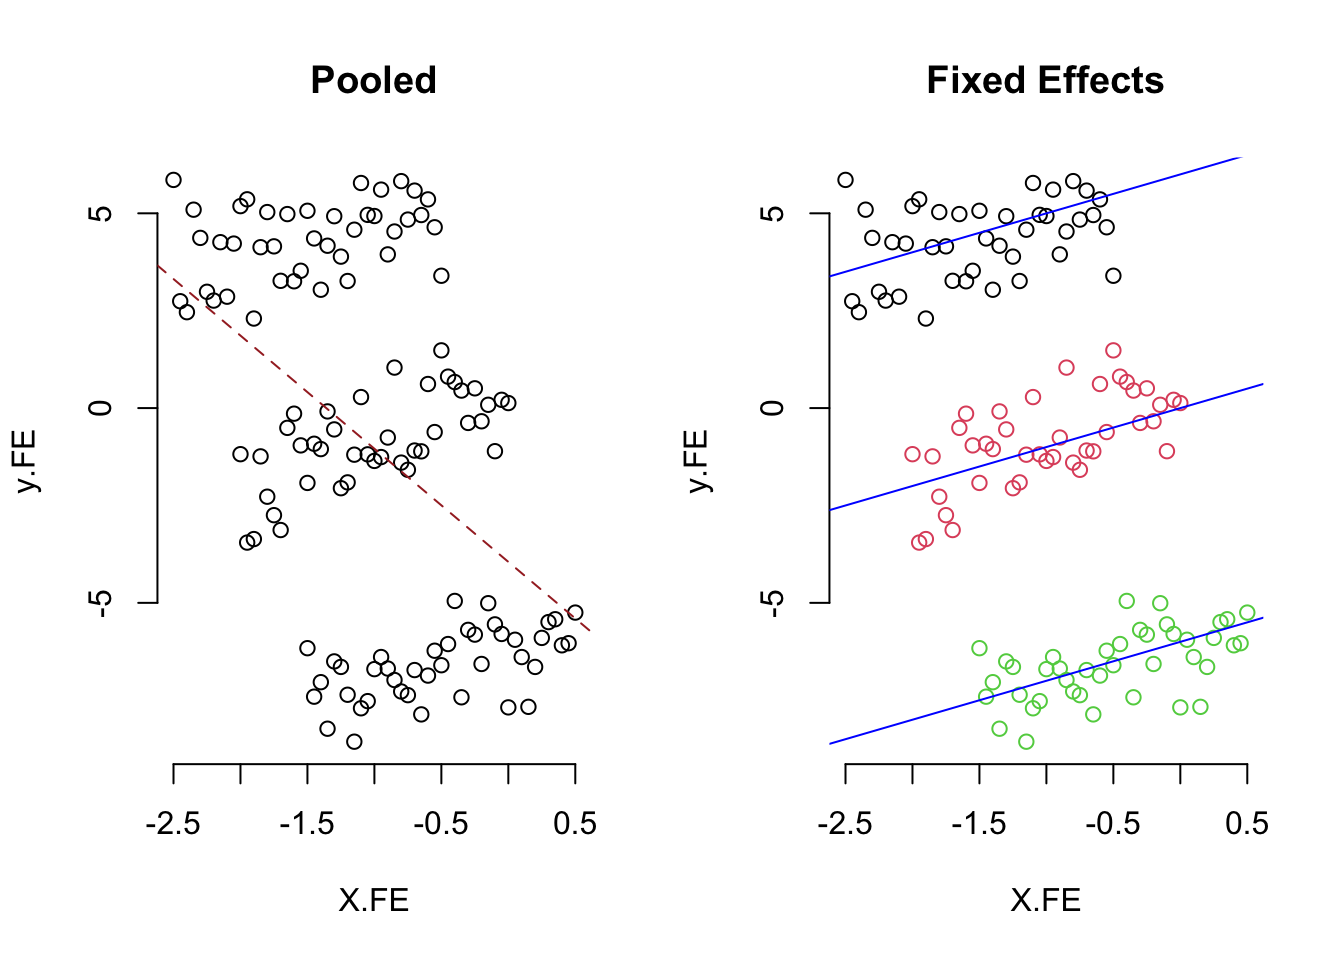
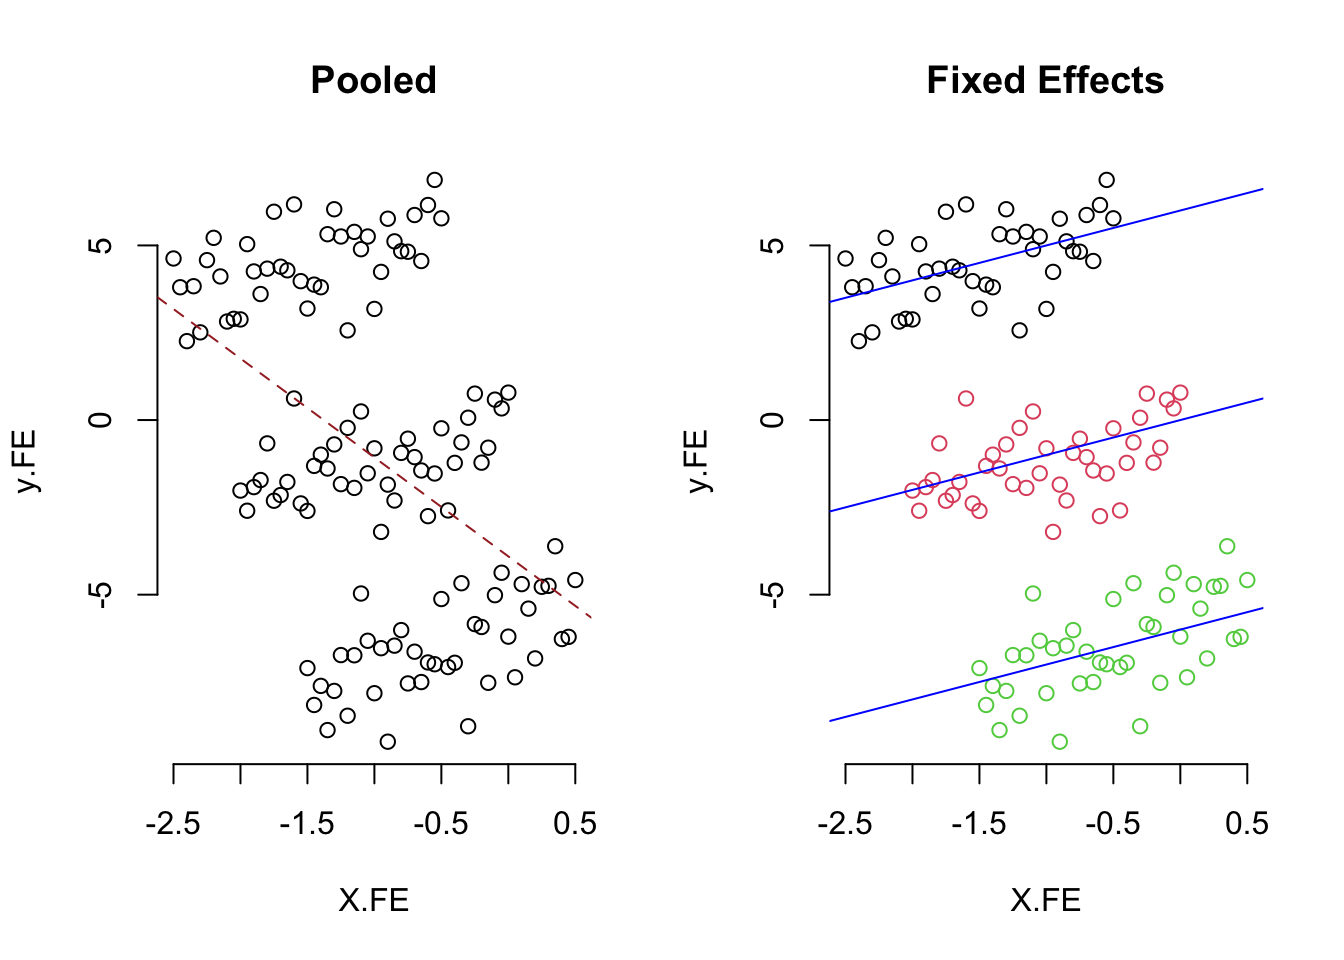
Through week 2

diff --git a/_site/index.html b/_site/index.html
@@ -543,7 +543,7 @@ Robert W. Walker
 </a>
 </div>
 </div>
-<div class="quarto-post image-right" data-index="6" data-categories="cGFuZWwlMjBkYXRhJTJDY29kZSUyQ2FuYWx5c2lz" data-listing-date-sort="1753686000000" data-listing-file-modified-sort="1752513311347" data-listing-date-modified-sort="NaN" data-listing-reading-time-sort="4" data-listing-word-count-sort="682">
+<div class="quarto-post image-right" data-index="6" data-categories="cGFuZWwlMjBkYXRhJTJDY29kZSUyQ2FuYWx5c2lz" data-listing-date-sort="1753686000000" data-listing-file-modified-sort="1753268535342" data-listing-date-modified-sort="NaN" data-listing-reading-time-sort="4" data-listing-word-count-sort="677">
 <div class="thumbnail"><a href="./posts/day-6/index.html" class="no-external">
 
 <img loading="lazy" src="./posts/day-6/image.png" class="thumbnail-image">
@@ -580,7 +580,7 @@ Robert W. Walker
 </a>
 </div>
 </div>
-<div class="quarto-post image-right" data-index="7" data-categories="cGFuZWwlMjBkYXRhJTJDY29kZSUyQ2FuYWx5c2lz" data-listing-date-sort="1753772400000" data-listing-file-modified-sort="1752514323766" data-listing-date-modified-sort="NaN" data-listing-reading-time-sort="3" data-listing-word-count-sort="523">
+<div class="quarto-post image-right" data-index="7" data-categories="cGFuZWwlMjBkYXRhJTJDY29kZSUyQ2FuYWx5c2lz" data-listing-date-sort="1753772400000" data-listing-file-modified-sort="1753268551574" data-listing-date-modified-sort="NaN" data-listing-reading-time-sort="3" data-listing-word-count-sort="518">
 <div class="thumbnail"><a href="./posts/day-7/index.html" class="no-external">
 
 <img loading="lazy" src="./posts/day-7/image.png" class="thumbnail-image">
@@ -617,7 +617,7 @@ Robert W. Walker
 </a>
 </div>
 </div>
-<div class="quarto-post image-right" data-index="8" data-categories="cGFuZWwlMjBkYXRhJTJDY29kZSUyQ2FuYWx5c2lz" data-listing-date-sort="1753858800000" data-listing-file-modified-sort="1752514399948" data-listing-date-modified-sort="NaN" data-listing-reading-time-sort="3" data-listing-word-count-sort="517">
+<div class="quarto-post image-right" data-index="8" data-categories="cGFuZWwlMjBkYXRhJTJDY29kZSUyQ2FuYWx5c2lz" data-listing-date-sort="1753858800000" data-listing-file-modified-sort="1753268637269" data-listing-date-modified-sort="NaN" data-listing-reading-time-sort="3" data-listing-word-count-sort="512">
 <div class="thumbnail"><a href="./posts/day-8/index.html" class="no-external">
 
 <img loading="lazy" src="./posts/day-8/image.jpg" class="thumbnail-image">
@@ -654,7 +654,7 @@ Robert W. Walker
 </a>
 </div>
 </div>
-<div class="quarto-post image-right" data-index="9" data-categories="cGFuZWwlMjBkYXRhJTJDY29kZSUyQ2FuYWx5c2lz" data-listing-date-sort="1753945200000" data-listing-file-modified-sort="1752514439753" data-listing-date-modified-sort="NaN" data-listing-reading-time-sort="1" data-listing-word-count-sort="73">
+<div class="quarto-post image-right" data-index="9" data-categories="cGFuZWwlMjBkYXRhJTJDY29kZSUyQ2FuYWx5c2lz" data-listing-date-sort="1753945200000" data-listing-file-modified-sort="1753268646862" data-listing-date-modified-sort="NaN" data-listing-reading-time-sort="1" data-listing-word-count-sort="68">
 <div class="thumbnail"><a href="./posts/day-9/index.html" class="no-external">
 
 <img loading="lazy" src="./posts/day-9/image.jpg" class="thumbnail-image">
@@ -691,7 +691,7 @@ Robert W. Walker
 </a>
 </div>
 </div>
-<div class="quarto-post image-right" data-index="10" data-categories="cGFuZWwlMjBkYXRhJTJDY29kZSUyQ2FuYWx5c2lz" data-listing-date-sort="1754031600000" data-listing-file-modified-sort="1752514482333" data-listing-date-modified-sort="NaN" data-listing-reading-time-sort="1" data-listing-word-count-sort="7">
+<div class="quarto-post image-right" data-index="10" data-categories="cGFuZWwlMjBkYXRhJTJDY29kZSUyQ2FuYWx5c2lz" data-listing-date-sort="1754031600000" data-listing-file-modified-sort="1753268657384" data-listing-date-modified-sort="NaN" data-listing-reading-time-sort="1" data-listing-word-count-sort="6">
 <div class="thumbnail"><a href="./posts/day-10/index.html" class="no-external">
 
 <img loading="lazy" src="./posts/day-10/image.jpg" class="thumbnail-image">
@@ -717,7 +717,7 @@ Robert W. Walker
 
 
 <ul>
-<li>A xaringan for presentation</li>
+<li>A reveal presentation</li>
 </ul>
 
 </a></div>

diff --git a/_site/posts/day-7/index.html b/_site/posts/day-7/index.html
@@ -333,8 +333,7 @@ pre > code.sourceCode > span > a:first-child::before { text-decoration: underlin
 <section id="slides" class="level2">
 <h2 class="anchored" data-anchor-id="slides">Slides</h2>
 <ul>
-<li><a href="./img/slidesDay7.pdf">Slides in .pdf format</a></li>
-<li><a href="https://robertwwalker.github.io/xaringan/ESSSSDA22-Day7/">A xaringan for presentation</a></li>
+<li><a href="https://robertwwalker.github.io/Essex-slides/ESSSSDA252W-Day7/">A reveal presentation</a></li>
 </ul>
 </section>
 <section id="missing-data" class="level2">
@@ -372,9 +371,9 @@ mi estimate: xtreg AINEW AILAG DEMOC3, fe</code></pre>
 <pre><code>── Attaching core tidyverse packages ──────────────────────── tidyverse 2.0.0 ──
 ✔ dplyr     1.1.4     ✔ readr     2.1.5
 ✔ forcats   1.0.0     ✔ stringr   1.5.1
-✔ ggplot2   3.5.1     ✔ tibble    3.2.1
-✔ lubridate 1.9.3     ✔ tidyr     1.3.1
-✔ purrr     1.0.2     
+✔ ggplot2   3.5.2     ✔ tibble    3.3.0
+✔ lubridate 1.9.4     ✔ tidyr     1.3.1
+✔ purrr     1.1.0     
 ── Conflicts ────────────────────────────────────────── tidyverse_conflicts() ──
 ✖ dplyr::between() masks plm::between()
 ✖ dplyr::filter()  masks stats::filter()
@@ -424,14 +423,14 @@ mi estimate: xtreg AINEW AILAG DEMOC3, fe</code></pre>
  3rd Qu.: 11.760   3rd Qu.:  2.940   3rd Qu.:16.64   3rd Qu.: 3.510  
  Max.   :128.570   Max.   :126.010   Max.   :20.89   Max.   :36.670  
  NA's   :618       NA's   :293       NA's   :115     NA's   :443     
-     DEMOC3          CWARCOW         IWARCOW2     
- Min.   : 0.000   Min.   :0.000   Min.   :0.0000  
- 1st Qu.: 0.000   1st Qu.:0.000   1st Qu.:0.0000  
- Median : 0.000   Median :0.000   Median :0.0000  
- Mean   : 3.682   Mean   :0.092   Mean   :0.0862  
- 3rd Qu.: 9.000   3rd Qu.:0.000   3rd Qu.:0.0000  
- Max.   :10.000   Max.   :1.000   Max.   :1.0000  
- NA's   :793      NA's   :407     NA's   :380     </code></pre>
+     DEMOC3          CWARCOW           IWARCOW2      
+ Min.   : 0.000   Min.   :0.00000   Min.   :0.00000  
+ 1st Qu.: 0.000   1st Qu.:0.00000   1st Qu.:0.00000  
+ Median : 0.000   Median :0.00000   Median :0.00000  
+ Mean   : 3.682   Mean   :0.09201   Mean   :0.08621  
+ 3rd Qu.: 9.000   3rd Qu.:0.00000   3rd Qu.:0.00000  
+ Max.   :10.000   Max.   :1.00000   Max.   :1.00000  
+ NA's   :793      NA's   :407       NA's   :380      </code></pre>
 </div>
 <div class="sourceCode cell-code" id="cb7"><pre class="sourceCode r code-with-copy"><code class="sourceCode r"><span id="cb7-1"><a href="#cb7-1" aria-hidden="true" tabindex="-1"></a><span class="fu">table</span>(ISQ99_Essex<span class="sc">$</span>IDORIGIN)</span></code><button title="Copy to Clipboard" class="code-copy-button"><i class="bi"></i></button></pre></div>
 <div class="cell-output cell-output-stdout">
@@ -839,7 +838,7 @@ $se.mi
 <div class="sourceCode cell-code" id="cb42"><pre class="sourceCode r code-with-copy"><code class="sourceCode r"><span id="cb42-1"><a href="#cb42-1" aria-hidden="true" tabindex="-1"></a>coefs_melded<span class="sc">$</span>q.mi <span class="sc">/</span> coefs_melded<span class="sc">$</span>se.mi</span></code><button title="Copy to Clipboard" class="code-copy-button"><i class="bi"></i></button></pre></div>
 <div class="cell-output cell-output-stdout">
 <pre><code>     (Intercept)    AILAG      BRIT  CWARCOW    DEMOC3 IWARCOW2     LEFT
-[1,]    18.64711 34.58908 -3.699019 9.549729 -7.049228 2.527259 -1.59078
+[1,]    18.64711 34.58908 -3.699019 9.549729 -7.049229 2.527259 -1.59078
          MIL2   PCGTHOU   PERCHPOP
 [1,] 3.083796 -4.823697 -0.2668869</code></pre>
 </div>

diff --git a/_site/posts/day-6/index.html b/_site/posts/day-6/index.html
@@ -357,8 +357,7 @@ window.Quarto = {
 <section id="slides" class="level2">
 <h2 class="anchored" data-anchor-id="slides">Slides</h2>
 <ul>
-<li><a href="./img/slidesDay6.pdf">Slides in .pdf format</a></li>
-<li><a href="https://robertwwalker.github.io/xaringan/ESSSSDA22-Day6/">A xaringan for presentation</a></li>
+<li><a href="https://robertwwalker.github.io/Essex-slides/ESSSSDA252W-Day6/">A reveal presentation</a></li>
 </ul>
 </section>
 <section id="panelr" class="level2">
@@ -487,44 +486,44 @@ FE
 X.FE
 </td>
 <td>
--0.633<sup>*</sup>
+-2.307<sup>***</sup>
 </td>
 <td>
-0.895<sup>***</sup>
+1.047<sup>***</sup>
 </td>
 <td>
-0.824<sup>***</sup>
+0.972<sup>***</sup>
 </td>
 <td>
-0.897<sup>***</sup>
+1.049<sup>***</sup>
 </td>
 <td>
--2.905<sup>***</sup>
+-2.833<sup>***</sup>
 </td>
 <td>
-0.900<sup>***</sup>
+1.053<sup>***</sup>
 </td>
 </tr>
 <tr>
 <td style="text-align:left">
 </td>
 <td>
-(0.381)
+(0.508)
 </td>
 <td>
-(0.134)
+(0.155)
 </td>
 <td>
-(0.158)
+(0.177)
 </td>
 <td>
-(0.134)
+(0.154)
 </td>
 <td>
-(0.513)
+(0.527)
 </td>
 <td>
-(0.134)
+(0.154)
 </td>
 </tr>
 <tr>
@@ -548,19 +547,19 @@ X.FE
 Constant
 </td>
 <td>
--1.677<sup>***</sup>
+-3.378<sup>***</sup>
 </td>
 <td>
--0.148
+-0.024
 </td>
 <td>
--0.220
+-0.099
 </td>
 <td>
--0.147
+-0.022
 </td>
 <td>
--3.948<sup>***</sup>
+-3.904<sup>***</sup>
 </td>
 <td>
 </td>
@@ -569,19 +568,19 @@ Constant
 <td style="text-align:left">
 </td>
 <td>
-(0.576)
+(0.642)
 </td>
 <td>
-(2.807)
+(2.867)
 </td>
 <td>
-(0.818)
+(0.900)
 </td>
 <td>
-(3.465)
+(3.539)
 </td>
 <td>
-(0.632)
+(0.649)
 </td>
 <td>
 </td>
@@ -634,22 +633,22 @@ Observations
 R<sup>2</sup>
 </td>
 <td>
-0.022
+0.146
 </td>
 <td>
-0.268
+0.274
 </td>
 <td>
-0.184
+0.200
 </td>
 <td>
-0.270
+0.277
 </td>
 <td>
-0.209
+0.193
 </td>
 <td>
-0.275
+0.281
 </td>
 </tr>
 <tr>
@@ -657,22 +656,22 @@ R<sup>2</sup>
 Adjusted R<sup>2</sup>
 </td>
 <td>
-0.014
+0.139
 </td>
 <td>
-0.262
+0.268
 </td>
 <td>
-0.177
+0.194
 </td>
 <td>
-0.264
+0.271
 </td>
 <td>
-0.203
+0.186
 </td>
 <td>
-0.257
+0.263
 </td>
 </tr>
 <tr>
@@ -680,22 +679,22 @@ Adjusted R<sup>2</sup>
 F Statistic
 </td>
 <td>
-2.753<sup>*</sup>
+20.615<sup>***</sup>
 </td>
 <td>
-44.326<sup>***</sup>
+45.693<sup>***</sup>
 </td>
 <td>
-27.240<sup>***</sup>
+30.284<sup>***</sup>
 </td>
 <td>
-44.859<sup>***</sup>
+46.260<sup>***</sup>
 </td>
 <td>
-32.022<sup>***</sup> (df = 1; 121)
+28.860<sup>***</sup> (df = 1; 121)
 </td>
 <td>
-45.118<sup>***</sup> (df = 1; 119)
+46.557<sup>***</sup> (df = 1; 119)
 </td>
 </tr>
 <tr>

diff --git a/_site/posts/day-10/index.html b/_site/posts/day-10/index.html
@@ -286,7 +286,7 @@ ul.task-list li input[type="checkbox"] {
 <section id="slides" class="level2">
 <h2 class="anchored" data-anchor-id="slides">Slides</h2>
 <ul>
-<li><a href="https://robertwwalker.github.io/xaringan/ESSSSDA22-Day6/">A xaringan for presentation</a></li>
+<li><a href="https://robertwwalker.github.io/Essex-slides/ESSSSDA252W-Day10/">A reveal presentation</a></li>
 </ul>
 </section>
 <section id="wrapping-up" class="level2">
